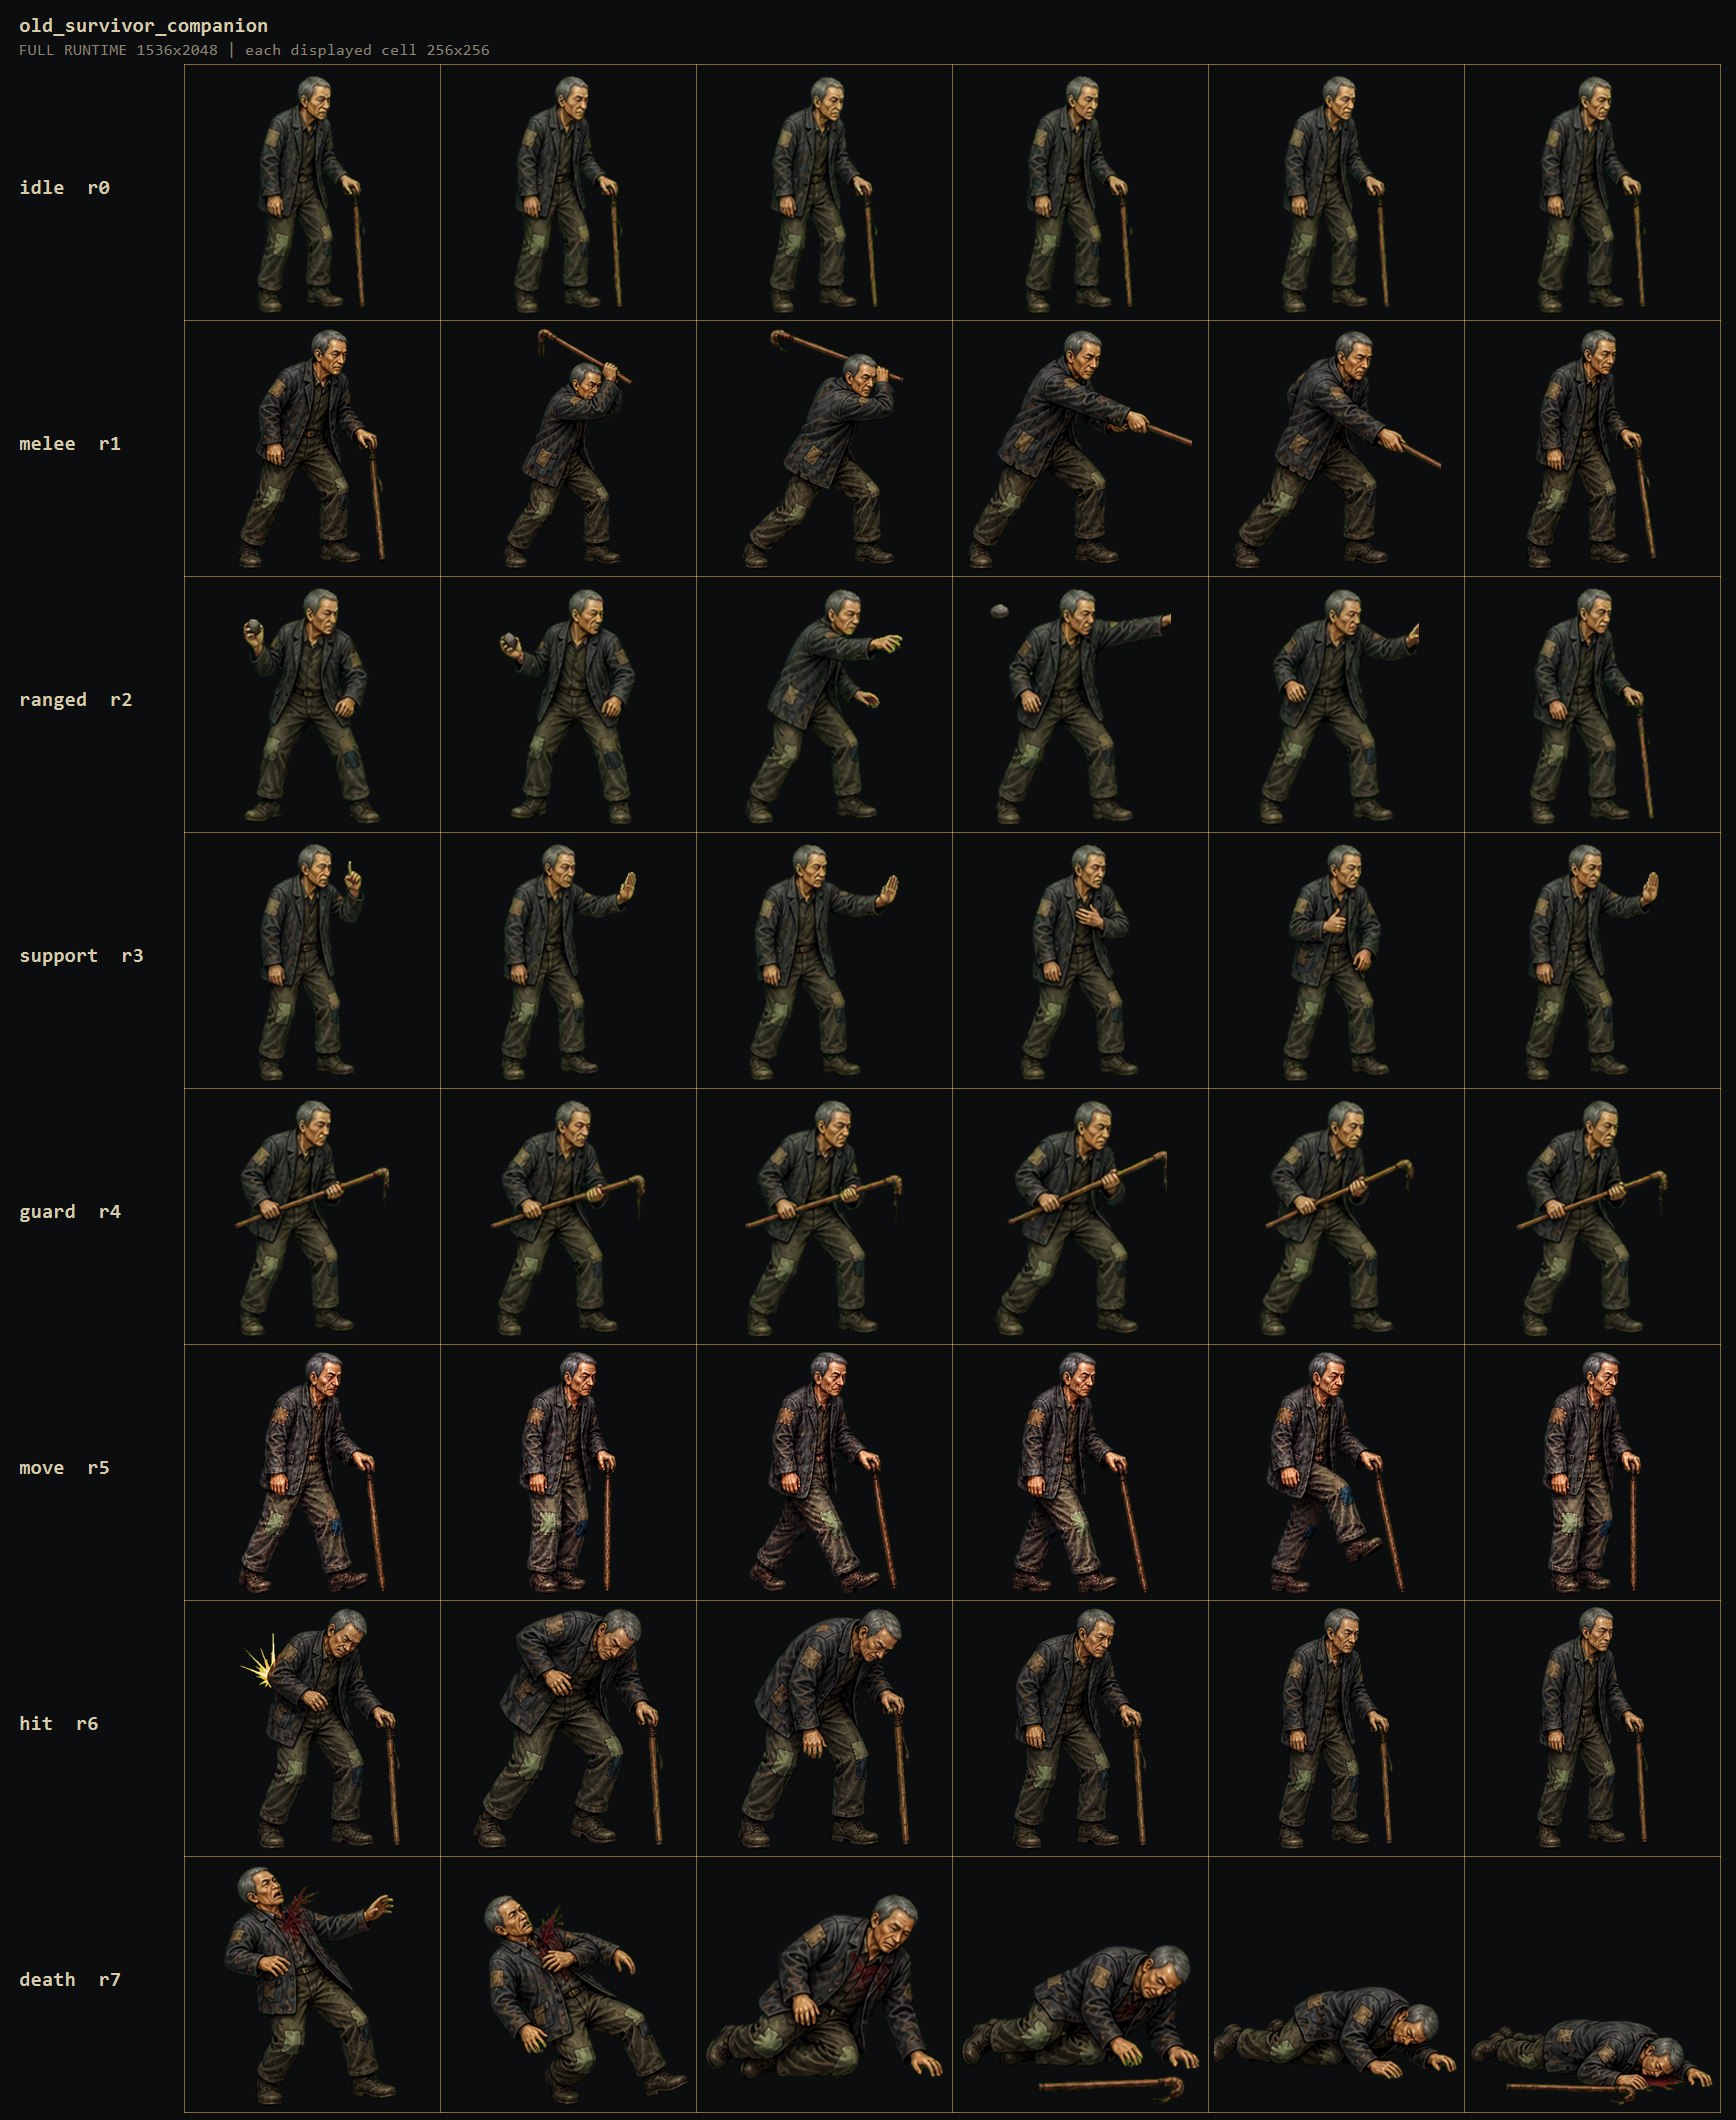
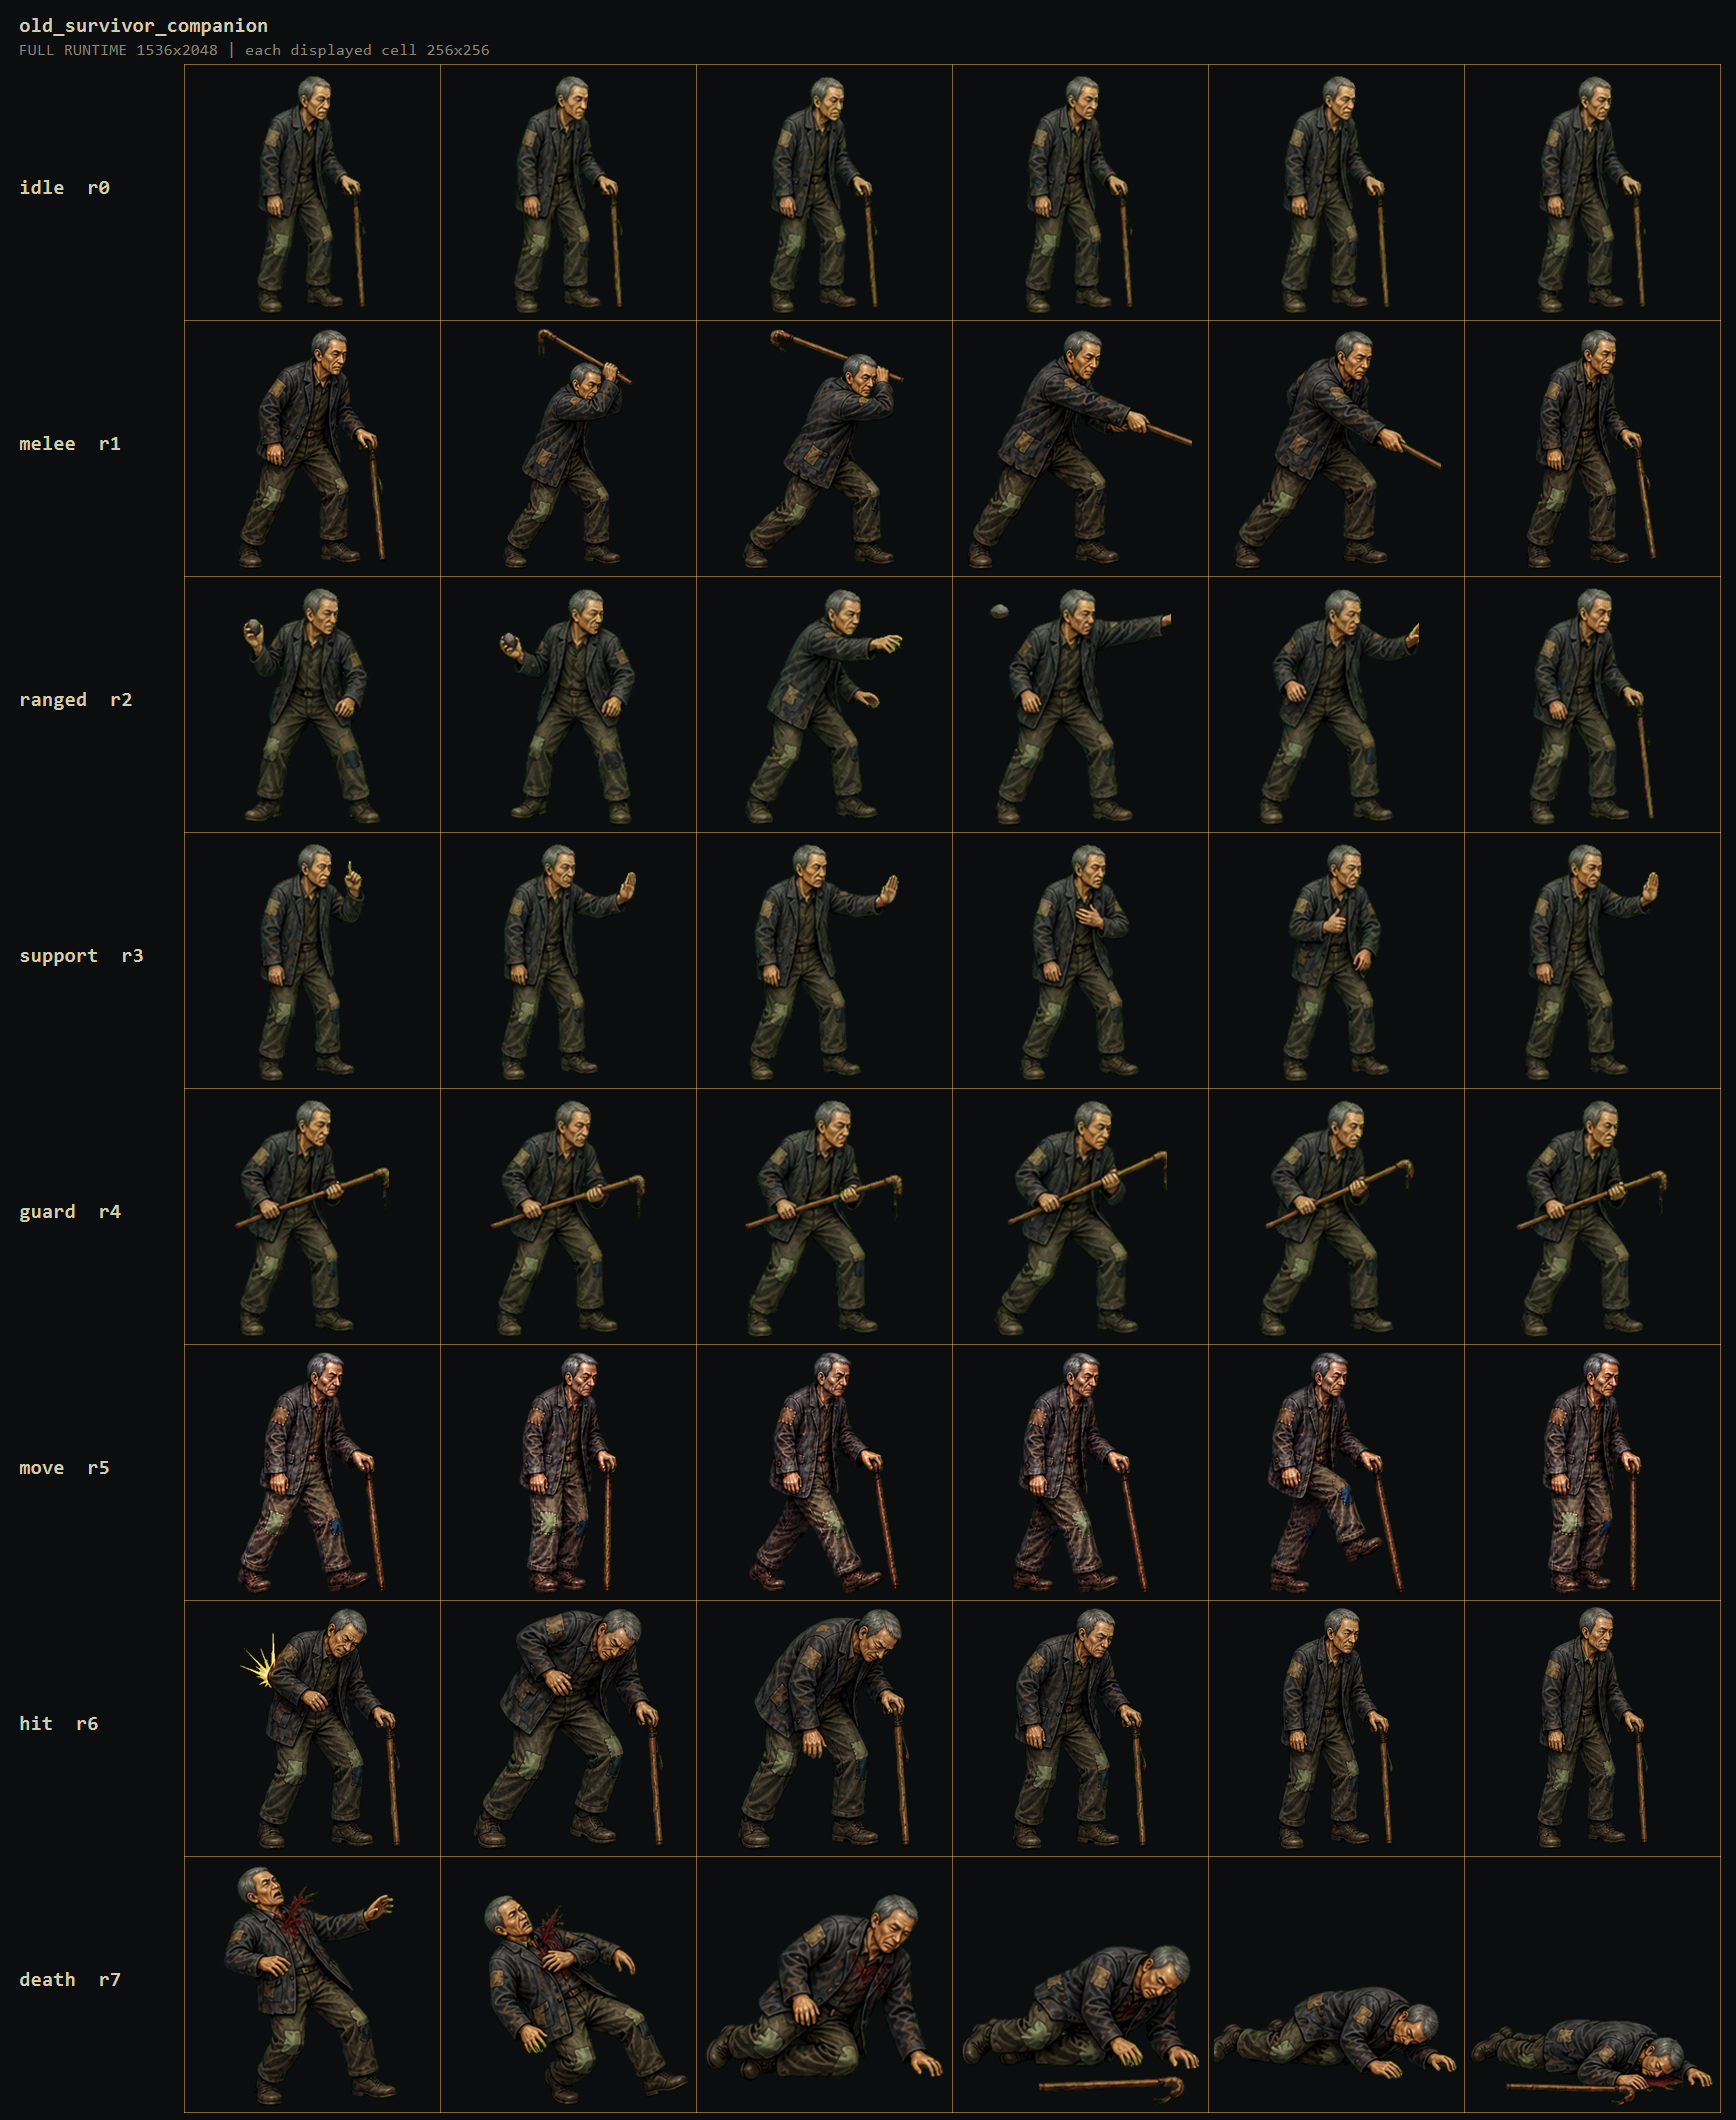
fix(assets): complete companion gait cycle

diff --git a/docs/analysis/COMPANION_MOTION_QA.md b/docs/analysis/COMPANION_MOTION_QA.md
@@ -10,7 +10,7 @@
 
 수동 판정은 contact sheet에서 동료별 identity, 무기, 8개 의미 행, 6프레임 연속성, 잘림·슬라이드·잘못된 행 재사용 여부를 직접 관찰한 결과다. 자동 verifier는 이 판정을 만들지 않으며, 별도 관찰 데이터의 ID/해시를 manifest, loadout, runtime PNG, recipe와 교차 검증한다.
 
-2026-08-08 fix round 1 선택적 재검토에서는 `old_survivor_companion`과 `sous_chef_companion`의 이동 r5 생성 결과를 모두 다시 교체했다. original 해상도 source alpha·runtime·개별 확대 보드·20종 contact sheet를 셀별로 대조했다. 노년 생존자는 f1 가까운 다리 전진/지팡이 지지 → f2 passing → f3 반대 다리 전진/지팡이 advance → f4 반대 passing → f5 가까운 다리 high-knee/앞쪽 재접지 → f6 중립 복귀가 구분된다. 부주방장은 f1 접지 → f2 passing → f3 반대 다리 high-knee → f4 반대 passing/지지 → f5 다시 바뀐 접지 → f6 복귀가 무릎·골반·어깨 변화로 구분되고 식칼은 낮게 유지된다. source/runtime 모두 셀 경계 alpha와 cross-cell component가 0이며, 다른 188개 비대상 행은 기준선과 동일함을 확인했다.
+2026-08-08 fix round 2 선택적 재검토에서는 `old_survivor_companion`과 `sous_chef_companion`의 이동 r5를 다시 교체하고 original 해상도 source alpha·runtime·개별 확대 보드를 셀별로 대조했다. 노년 생존자의 승인된 발/지팡이 phase는 유지됐고 source 여섯 셀의 좌우 gutter가 모두 49px 이상이다. 부주방장은 f1 큰·밝은 near boot toe-up contact → f2 두 발 close true passing → f3 작은·어두운 far boot flat contact와 반대 occlusion → f4 opposite close passing → f5 lowered-pelvis near-leg wide contact → f6 close neutral return으로 읽힌다. runtime normalized lower-alpha IoU는 f1/f6 `0.369`, f2/f5 `0.333`, f1/f3 `0.568`이며 이전 반복 실루엣 수치보다 낮다. 두 source/runtime 모두 셀 경계 alpha와 cross-cell component가 0이고 source 최소 gutter는 각각 49px/33px이며, 다른 188개 비대상 행은 기준선과 동일하다.
 
 ## 60개 스킬 수동 판정
 
